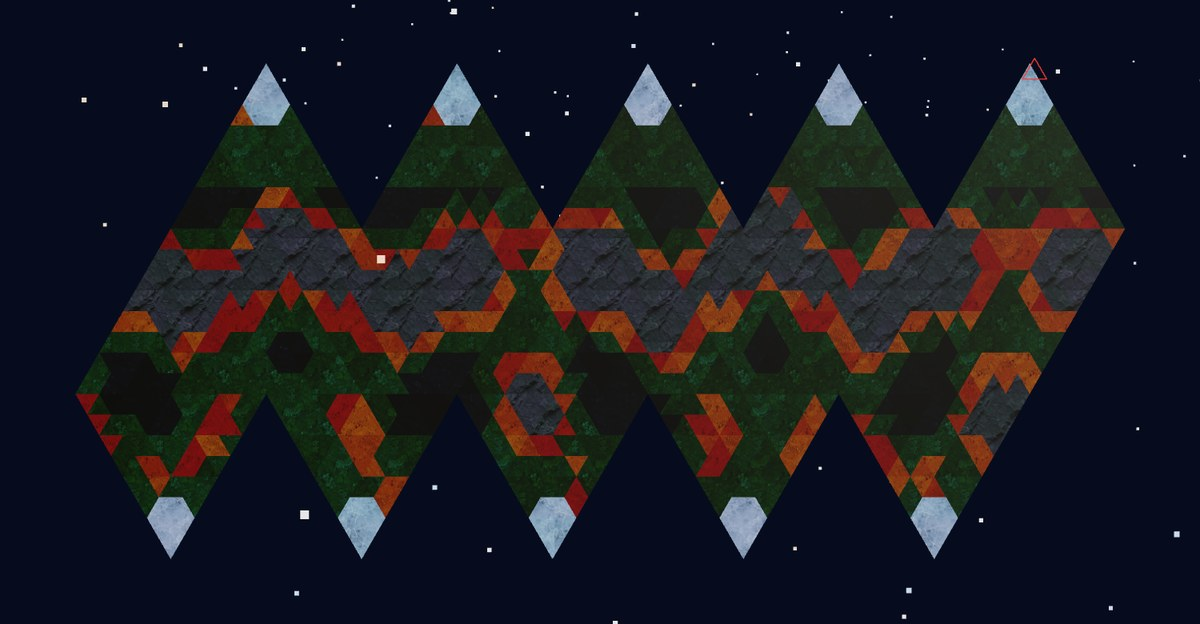
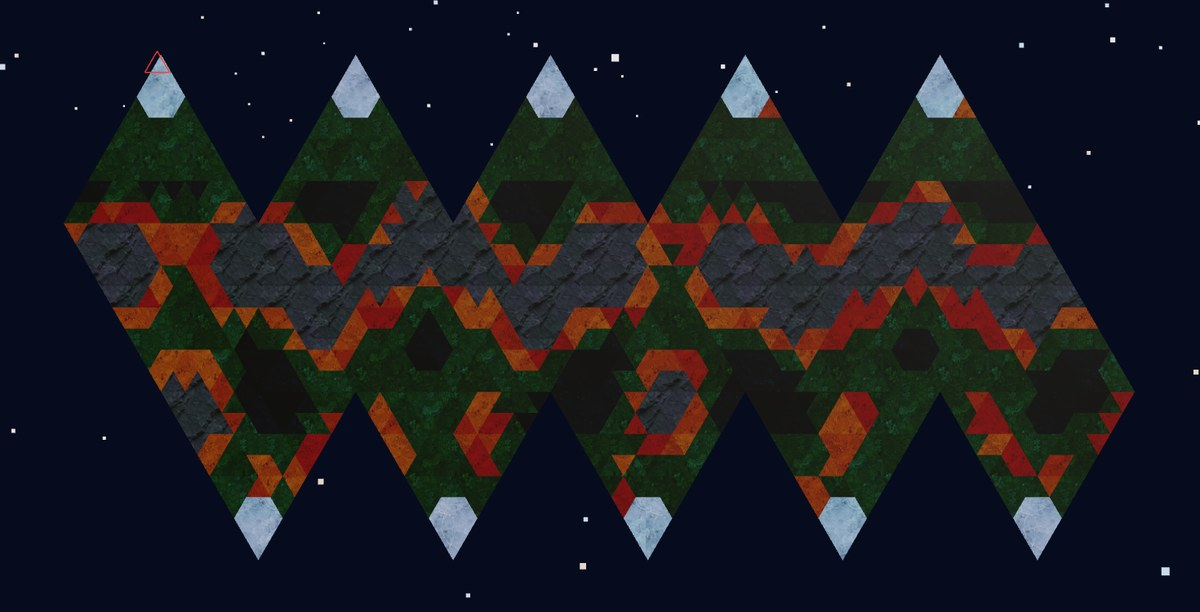
Net view: reading-order layout and per-view control mapping
Lay the net out with faces 0-4, 5-9, 10-14, 15-19 left to right, top to bottom.
Face numbers run westward, so this is a mirror image of the outside view; add a
per-camera-mode CONTROL_MAPPINGS layer and flip A/D for net view to compensate.
Refresh the net screenshot and spec text to match.

diff --git a/src/character/controller.ts b/src/character/controller.ts
@@ -21,6 +21,23 @@ export const CAMERA_PRESETS: Record<CameraMode, CameraPreset> = {
   icosahedral_net: { distance: 60.0, height: 0, pitch: 0, fov: 55 },
 };
 
+// Per-view control mapping layer: raw key input (+1/-1) is multiplied by these before
+// driving the character, so each camera view can read A/D and W/S in its own frame.
+// Ground views are verified (chase-camera projection) to read D as a right turn;
+// the net is a reading-order (mirror-image) map, so its turn is flipped.
+export interface ControlMapping {
+  turn: 1 | -1;
+  forward: 1 | -1;
+}
+
+export const CONTROL_MAPPINGS: Record<CameraMode, ControlMapping> = {
+  curved_horizon: { turn: 1, forward: 1 },
+  close_third: { turn: 1, forward: 1 },
+  wide_panoramic: { turn: 1, forward: 1 },
+  orbital_planet: { turn: 1, forward: 1 },
+  icosahedral_net: { turn: -1, forward: 1 },
+};
+
 export class FootstepParticles {
   public mesh: THREE.Points;
   private maxParticles = 60;
@@ -311,23 +328,26 @@ export class SphericalCharacterController {
 
     // 1. Process A / D turning (yaw rotation around characterUp, not lateral strafe)
     const turnRate = 2.8; // radians per second (~160 deg/sec)
-    if (this.input.turn !== 0) {
+    const mapping = CONTROL_MAPPINGS[this.cameraMode];
+    const turnInput = this.input.turn * mapping.turn;
+    const forwardInput = this.input.forward * mapping.forward;
+    if (turnInput !== 0) {
       // Verified via camera projection: with this sign, D (+1) makes the ground-view world
       // sweep screen-left, i.e. a true right turn. (up x forward is the mesh's local +X,
       // which is NOT screen-right from a chase camera, so don't "fix" this against charRight.)
-      const turnAngle = -this.input.turn * turnRate * dt;
+      const turnAngle = -turnInput * turnRate * dt;
       const turnQuat = new THREE.Quaternion().setFromAxisAngle(this.characterUp, turnAngle);
       this.forwardHeading.applyQuaternion(turnQuat).normalize();
-      this.angularTurnSpeed = -this.input.turn * turnRate;
+      this.angularTurnSpeed = -turnInput * turnRate;
     } else {
       this.angularTurnSpeed = 0;
     }
 
     // 2. Process W / S forward & reverse velocity (not lateral)
     let targetSpeed = 0;
-    if (this.input.forward > 0) {
+    if (forwardInput > 0) {
       targetSpeed = this.input.sprint ? this.sprintSpeed : this.walkSpeed;
-    } else if (this.input.forward < 0) {
+    } else if (forwardInput < 0) {
       targetSpeed = -(this.input.sprint ? this.sprintSpeed * 0.7 : this.walkSpeed * 0.65);
     }
     this.currentSpeed = THREE.MathUtils.damp(this.currentSpeed, targetSpeed, 12, dt);

diff --git a/src/dggs/net.ts b/src/dggs/net.ts
@@ -23,8 +23,8 @@ export const NET_EDGE_CHORD = 1.0514622242382672;
 
 const H = Math.sqrt(3) / 2; // height of a unit equilateral triangle
 
-// Center of the net's bounding box in net-space units (x:[-5.5,0], y:[-H,2H]).
-export const NET_LAYOUT_CENTER = new THREE.Vector2(-2.75, H / 2);
+// Center of the net's bounding box in net-space units (x:[0,5.5], y:[-H,2H]).
+export const NET_LAYOUT_CENTER = new THREE.Vector2(2.75, H / 2);
 
 export interface NetTriangle {
   vertex: THREE.Vector2;
@@ -32,18 +32,11 @@ export interface NetTriangle {
   east: THREE.Vector2;
 }
 
-// The net is laid out as seen from outside the sphere (same handedness as the 3D
-// cells): x is negated from the raw strip layout below, which is a mirror image.
+// Reading-order layout: faces 0-4 left to right in the top row, 5-9 next, 10-14 next,
+// 15-19 last. Face numbers increase westward on the sphere, so this is a mirror image
+// of the sphere seen from outside (equivalently, the view from inside) — turns read
+// reversed on it, which CONTROL_MAPPINGS.icosahedral_net compensates for.
 function baseFaceNetTriangle(faceIndex: number): NetTriangle {
-  const raw = rawBaseFaceNetTriangle(faceIndex);
-  return {
-    vertex: new THREE.Vector2(-raw.vertex.x, raw.vertex.y),
-    west: new THREE.Vector2(-raw.west.x, raw.west.y),
-    east: new THREE.Vector2(-raw.east.x, raw.east.y),
-  };
-}
-
-function rawBaseFaceNetTriangle(faceIndex: number): NetTriangle {
   const band = Math.floor(faceIndex / 5);
   const i = faceIndex % 5;
 

diff --git a/docs/dggs-spec.md b/docs/dggs-spec.md
@@ -140,13 +140,15 @@ exact, undistorted flat triangle; the only "distortion" is conceptual,
 at the fold lines between faces, rather than smoothly smeared across
 the whole surface the way Mercator or equirectangular projections are.
 
-The net is drawn as seen from outside the sphere, so it has the same
-handedness as the 3D cells: Face 0 (the north cap face the walker spawns
-on) sits at the right end of the top row, and the faces run right-to-left
-as their numbers increase. A cell's winding in the net matches its winding
-on the sphere viewed from outside (verified for every base face and a
-spread of sub-cells; an earlier version of the layout was a mirror image,
-which made left/right turns read backwards on the map).
+The net is laid out in reading order: faces 0-4 left to right in the top
+row (north cap), 5-9 in the next row (upper band), 10-14 in the next
+(lower band), and 15-19 in the last (south cap). Because face numbers
+increase westward on the sphere, this layout is a mirror image of the
+sphere seen from outside (verified: every cell's winding in the net is
+opposite to its winding on the sphere), i.e. it reads like the view from
+inside. A left/right turn therefore looks reversed on the map, so the
+net view has its own control mapping (`CONTROL_MAPPINGS` in
+`src/character/controller.ts`) that flips A/D there.
 
 Because the net has no curvature to account for, subdividing it is
 exact plane geometry — no per-level renormalization like the real 3D
